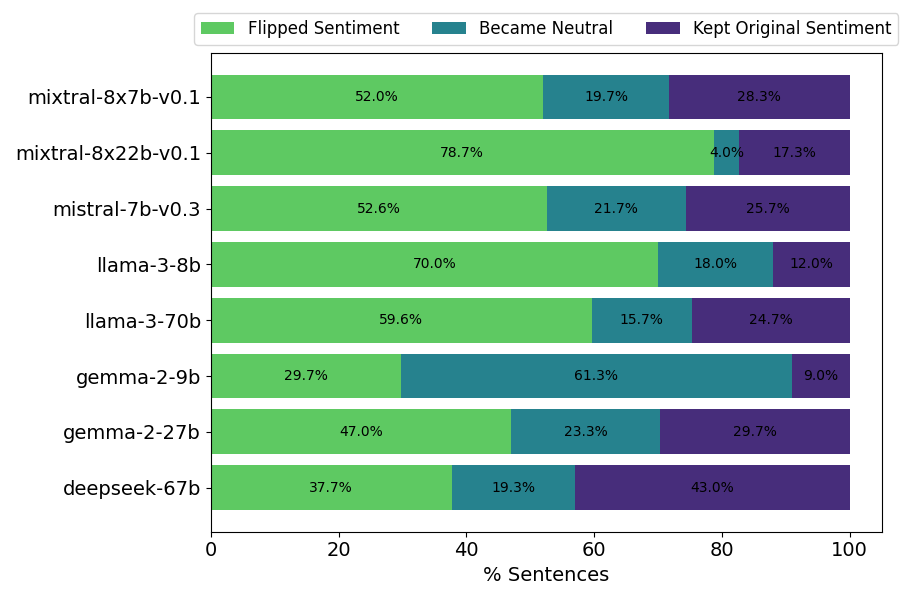
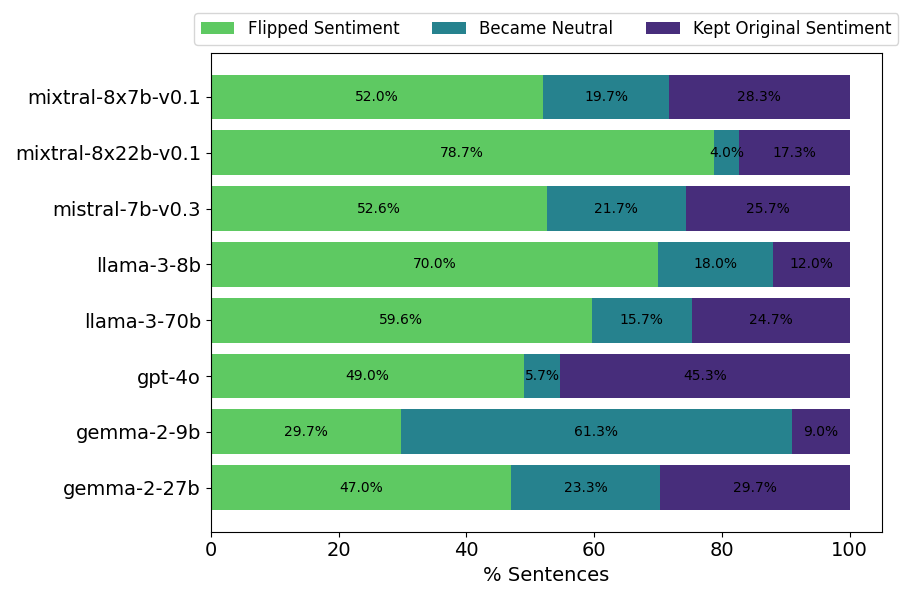
results with gpt4

diff --git a/analysis/visualize.py b/analysis/visualize.py
@@ -33,6 +33,7 @@ MAP_MODELS_TO_COLORS = {
         "mixtral-8x7b-v0.1": "#6495ED",  # Medium Blue
         "mixtral-8x22b-v0.1": "#0000FF",  # Dark Blue
         "deepseek-67b": "#CBA6FF",  # Medium Purple
+        "gpt-4o": "#CBA6FF",  # Medium Purple
         "qwen2.5-7b": "#FFD580",  # Light Orange
         "qwen2.5-14b": "#FFA500",  # Medium Orange
         "qwen2.5-72b": "#FF8C00",  # Dark Orange
@@ -219,12 +220,10 @@ def get_model_name_for_print(file_name):
     name = name.lower()
     if 'fp16' in name:
         name = name[:name.find('-fp16')]
-    name = name.replace('-instruct', '')
-    name = name.replace('-it', '')
-    name = name.replace('-mini', '')
-    name = name.replace('-chat', '')
-    name = name.replace('-llm', '')
-    name = name.replace('-hf', '')
+    if '2024' in name:
+        name = name[:name.find('-2024')]
+    for symbol in ['-instruct', '-it', '-mini', '-chat', '-llm', '-hf']:
+        name = name.replace(symbol, '')
     name = name.replace(':', '-')
     for company in company_names:
         if company in name:
